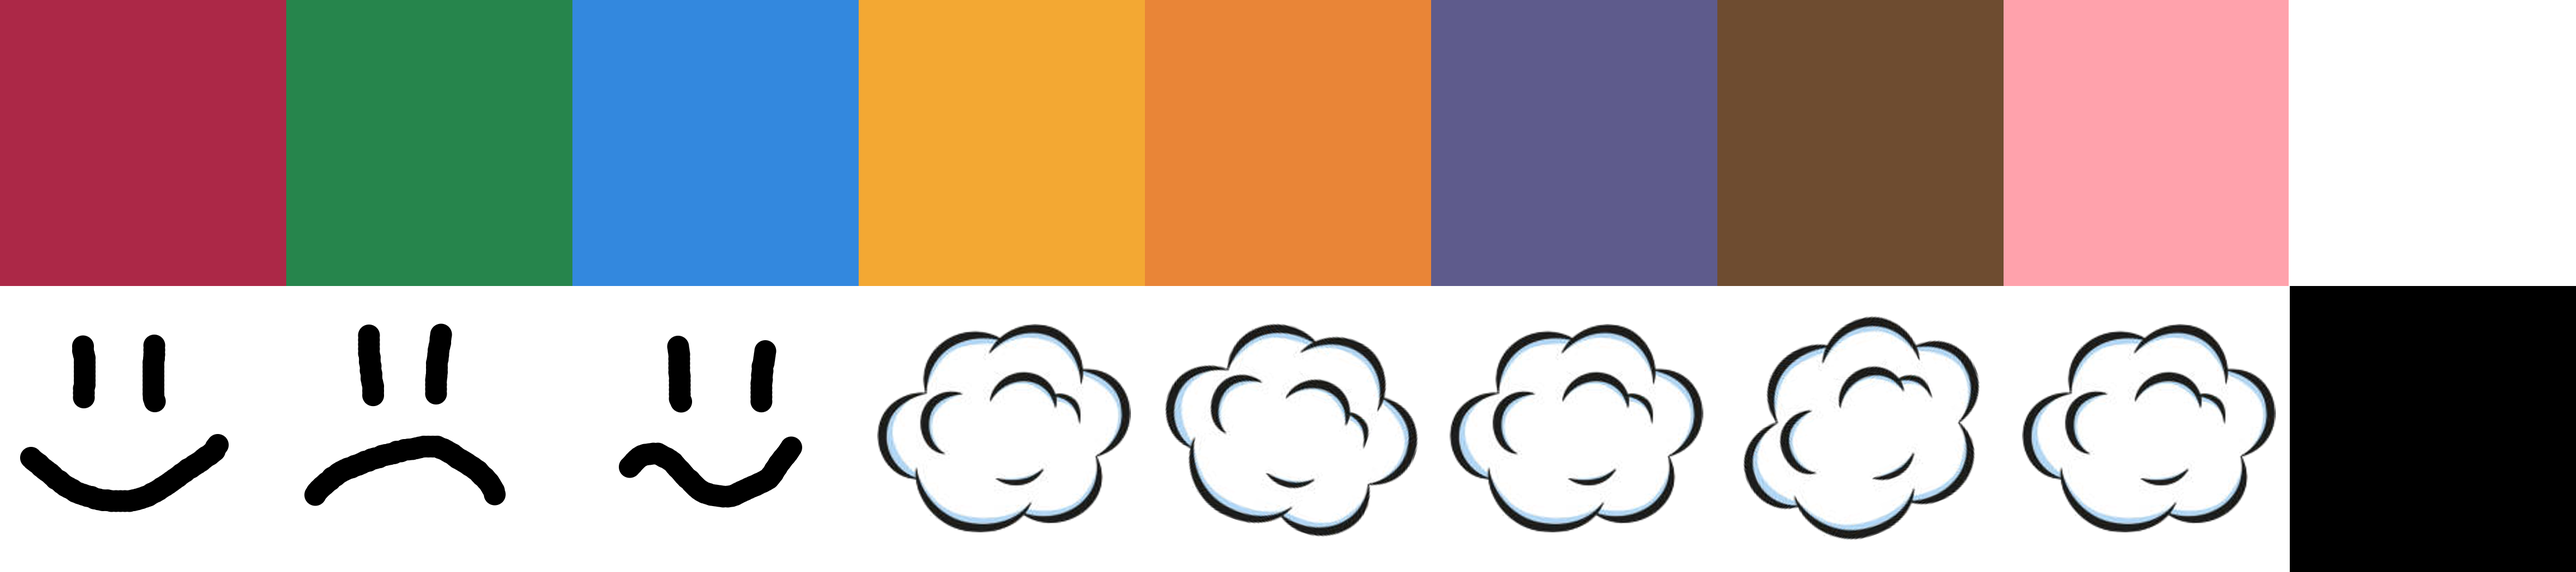
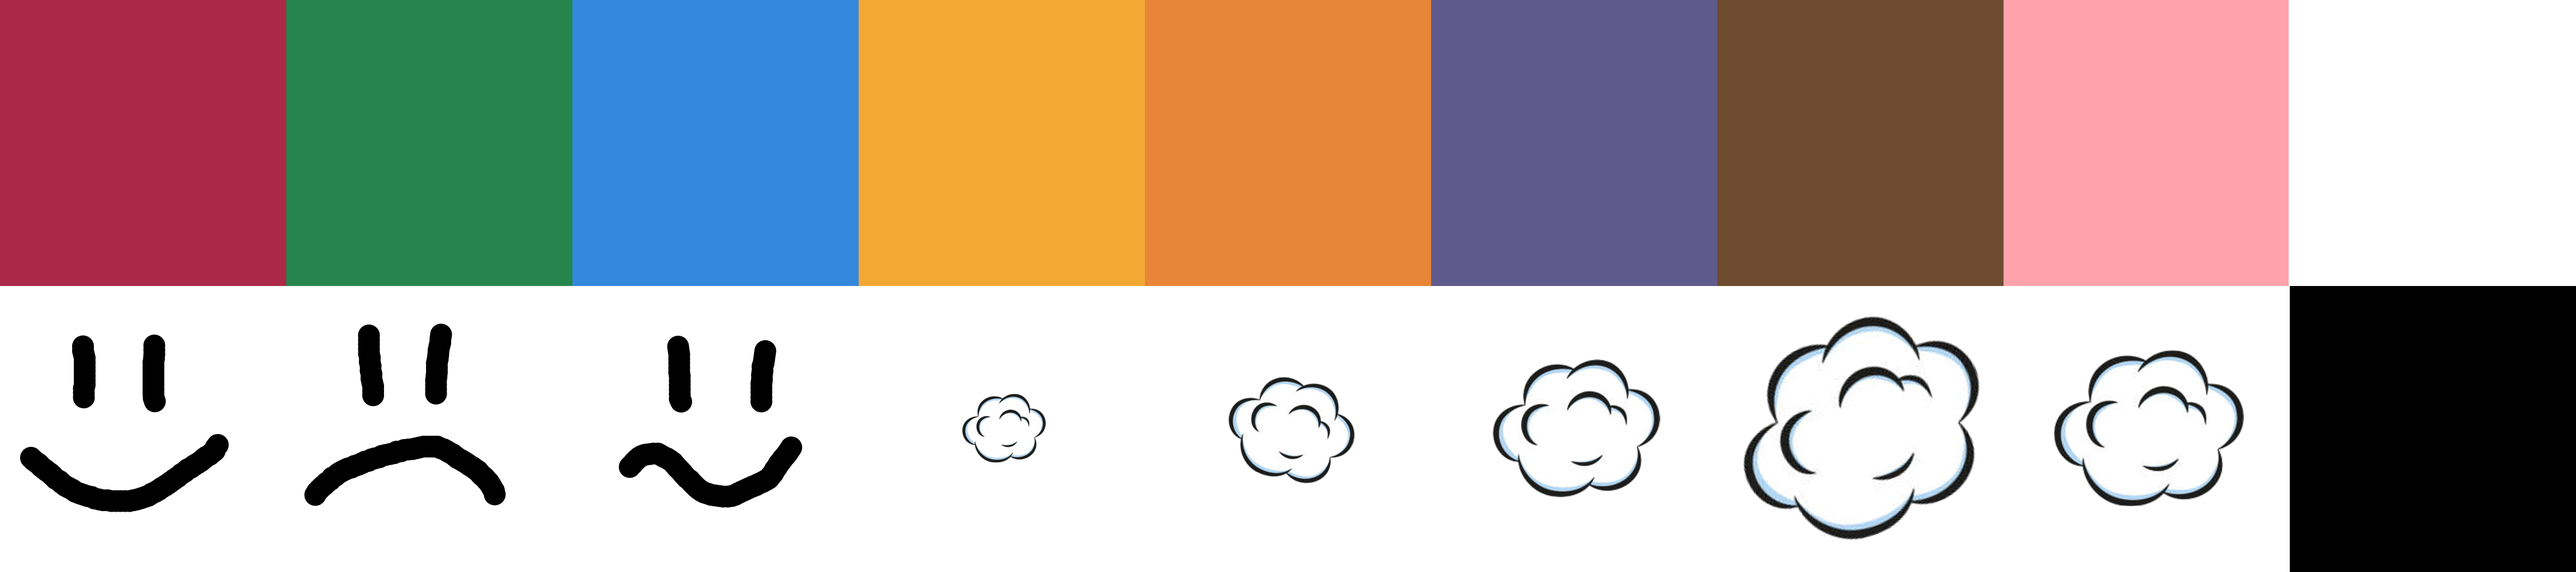
fix animations and faces?

Changed region(s): [[0.3125, 0.5625, 0.6875, 0.9375], [0.7812, 0.5625, 0.9062, 0.9375]]

diff --git a/src/game/logic.rs b/src/game/logic.rs
@@ -13,26 +13,32 @@ use super::{
 pub(super) fn plugin(app: &mut App) {
     // app.init_resource::<PlayerInput>();
     app.insert_resource(PlayerInput {
-        rules: HashMap::from([(
-            Tile::Red,
-            Rule {
-                tiles: vec![Tile::Red],
-                mask: [false, false, true, false, true, false, false, true],
-                result: Tile::Green,
-            },
-        ),(
-            Tile::Green,
-             Rule {
-                 tiles: vec![Tile::Green],
-                 mask: [false, false, true, false, true, false, false, true],
-                 result: Tile::Red,
-             },
-        )]),
+        rules: HashMap::from([
+            (
+                Tile::Red,
+                Rule {
+                    tiles: vec![Tile::Red],
+                    mask: [false, false, true, false, true, false, false, true],
+                    result: Tile::Green,
+                },
+            ),
+            (
+                Tile::Green,
+                Rule {
+                    tiles: vec![Tile::Green],
+                    mask: [false, false, true, false, true, false, false, true],
+                    result: Tile::Red,
+                },
+            ),
+        ]),
     });
     app.init_resource::<GridIterations>();
     app.init_state::<IterationState>();
     app.add_systems(OnEnter(IterationState::Simulating), simulation_step);
-    app.add_systems(OnEnter(IterationState::Displaying), rendering_step);
+    app.add_systems(
+        OnEnter(IterationState::Displaying),
+        (rendering_step, check_faces, check_wincon),
+    );
     app.add_systems(OnEnter(IterationState::Victory), show_next_level);
     app.add_systems(OnEnter(IterationState::Reset), reset_step);
     app.add_systems(
@@ -148,8 +154,6 @@ fn rendering_step(
     level_assets: Res<LevelAssets>,
     grid: Res<GridIterations>,
     board: Query<Entity, With<Puzzle>>,
-    faces: Query<Entity, With<Face>>,
-    mut state: ResMut<NextState<IterationState>>,
 ) {
     let reset = if grid.grid.len() == 1 { true } else { false };
     let image = level_assets.tilesheet.clone();
@@ -161,7 +165,7 @@ fn rendering_step(
                 .insert(Tile::from_u8(grid.grid.last().unwrap()[i]));
             commands.spawn((
                 ChildOf(entity),
-                AnimationConfig::new(12, 16, 10),
+                AnimationConfig::new(12, 16, 20),
                 Sprite {
                     image: image.clone(),
                     custom_size: Some(Vec2::splat(level_assets.tile_size * 1.5)),
@@ -174,21 +178,36 @@ fn rendering_step(
             ));
         }
     }
+}
+fn check_faces(
+    mut commands: Commands,
+    grid: Res<GridIterations>,
+    faces: Query<Entity, With<Face>>,
+) {
     for (i, entity) in faces.iter().enumerate() {
-        commands.entity(entity).insert(if reset {
-            Face::Thinking
-        } else if grid.is_correct(i) {
+        commands.entity(entity).insert(if grid.is_correct(i) {
             Face::Happy
         } else {
             Face::Sad
         });
     }
-    if grid.grid.last().unwrap() == &grid.goal {
+}
+fn check_wincon(
+    mut commands: Commands,
+    grid: Res<GridIterations>,
+    mut state: ResMut<NextState<IterationState>>,
+) {
+    if grid.grid.last().unwrap_or(&Vec::new()) == &grid.goal {
         commands.remove_resource::<AutomaticSimulation>();
         state.set(IterationState::Victory);
     }
 }
-fn reset_step(mut grid: ResMut<GridIterations>, mut state: ResMut<NextState<IterationState>>) {
+fn reset_step(
+    mut commands: Commands,
+    mut grid: ResMut<GridIterations>,
+    mut state: ResMut<NextState<IterationState>>,
+) {
     grid.grid.truncate(1);
+    commands.remove_resource::<AutomaticSimulation>();
     state.set(IterationState::Displaying);
 }

diff --git a/src/game/level.rs b/src/game/level.rs
@@ -9,7 +9,7 @@ use bevy::reflect::TypePath;
 
 use crate::{asset_tracking::LoadResource, audio::music, screens::Screen, theme::palette::*};
 
-use super::logic::{GridIterations, PlayerInput};
+use super::logic::{GridIterations, IterationState, PlayerInput};
 
 pub(super) fn plugin(app: &mut App) {
     app.register_type::<LevelAssets>();
@@ -28,7 +28,6 @@ pub struct LevelAssets {
     pub solutions: Handle<Levels>,
     #[dependency]
     pub tilesheet: Handle<Image>,
-    // #[dependency]
     pub atlas: Handle<TextureAtlasLayout>,
     pub tile_size: f32,
 }
@@ -54,6 +53,45 @@ impl FromWorld for LevelAssets {
         }
     }
 }
+/// A system that spawns the main level.
+pub fn spawn_level(
+    mut commands: Commands,
+    mut level_assets: ResMut<LevelAssets>,
+    levels: Res<Assets<Levels>>,
+    current_level: Res<State<Level>>,
+    mut grid_iter: ResMut<GridIterations>,
+    mut state: ResMut<NextState<IterationState>>,
+) {
+    let parent = commands
+        .spawn((
+            Name::new("Level"),
+            Transform::default(),
+            Visibility::default(),
+            StateScoped(Screen::Gameplay),
+            children![(
+                Name::new("Gameplay Music"),
+                music(level_assets.music.clone())
+            )],
+        ))
+        .id();
+    if let Some(level) = levels.get(level_assets.puzzles.id()) {
+        let grid = &level.levels[*current_level.get() as usize];
+        grid_iter.grid.clear();
+        grid_iter.grid.push((*grid).to_vec());
+        let (puzzle, tile_size) = grid.render_puzzle(parent);
+        level_assets.tile_size = tile_size;
+        for bundle in puzzle {
+            commands.spawn(bundle);
+        }
+    }
+    if let Some(solution) = levels.get(level_assets.solutions.id()) {
+        let grid = &solution.levels[*current_level.get() as usize];
+        grid_iter.goal = (*grid).to_vec();
+        commands.spawn_batch(grid.render_solution(parent));
+    }
+    state.set(IterationState::Reset);
+}
+
 #[derive(Component)]
 pub struct Puzzle;
 #[derive(Component)]
@@ -159,43 +197,6 @@ impl Utility for Grid {
         } else {
             None
         }
-    }
-}
-
-/// A system that spawns the main level.
-pub fn spawn_level(
-    mut commands: Commands,
-    mut level_assets: ResMut<LevelAssets>,
-    levels: Res<Assets<Levels>>,
-    current_level: Res<State<Level>>,
-    mut grid_iter: ResMut<GridIterations>,
-) {
-    let parent = commands
-        .spawn((
-            Name::new("Level"),
-            Transform::default(),
-            Visibility::default(),
-            StateScoped(Screen::Gameplay),
-            children![(
-                Name::new("Gameplay Music"),
-                music(level_assets.music.clone())
-            )],
-        ))
-        .id();
-    if let Some(level) = levels.get(level_assets.puzzles.id()) {
-        let grid = &level.levels[*current_level.get() as usize];
-        grid_iter.grid.clear();
-        grid_iter.grid.push((*grid).to_vec());
-        let (puzzle, tile_size) = grid.render_puzzle(parent);
-        level_assets.tile_size = tile_size;
-        for bundle in puzzle {
-            commands.spawn(bundle);
-        }
-    }
-    if let Some(solution) = levels.get(level_assets.solutions.id()) {
-        let grid = &solution.levels[*current_level.get() as usize];
-        grid_iter.goal = (*grid).to_vec();
-        commands.spawn_batch(grid.render_solution(parent));
     }
 }
 
